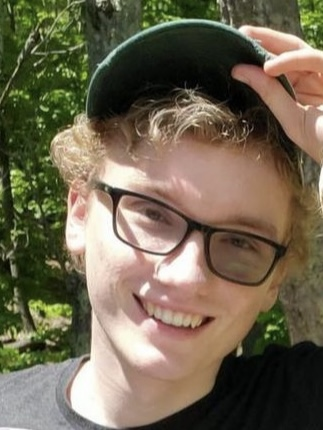
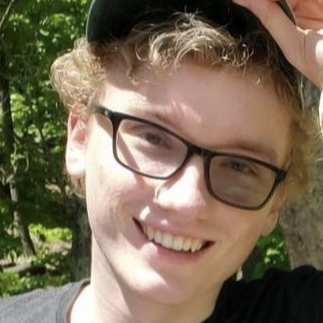
style: making the bio page actually cool

diff --git a/api/public/html/teambio.css b/api/public/html/teambio.css
@@ -1,41 +1,39 @@
 
+.container {
+  display: grid;
+  grid-template-columns: repeat(3, 1fr); 
+  gap: 2%;
+  padding: 2%;
+  padding-left: 12%;
+  padding-right: 12%;
+  margin: auto;
+  
+}
 
 .bio-card {
-    /* Add shadows to create the "card" effect */
-    box-shadow: 0 4px 8px 0 rgba(0,0,0,0.2);
-    transition: 0.3s;
-    background-color: #ffbb00;
-    display: flex;
-    flex-direction: column;
-    justify-content: center;
-    align-items: center;
-    padding:2rem;
-    font-size: small;
-    
+  /* Add shadows to create the "card" effect */
+  display: flex;
+  padding: 5%;
+  box-shadow: 0 4px 8px 0 rgba(0,0,0,0.2);
+  transition: 0.3s;
+  background-color: #ffbb00;
+  flex-direction: column;
+  justify-content: flex-start;
+  align-items: center;
+}
 
-  }
-  
-  /* On mouse-over, add a deeper shadow */
-  .bio-card:hover {
-    box-shadow: 0 8px 16px 0 rgba(0,0,0,0.2);
-  }
-  
-  /* Add some padding inside the card container */
-  .container {
-    display: grid;
-    grid-template-columns: repeat(3, 1fr);
-    column-gap: 100px;
-    row-gap: 50px;
-    padding: 2rem;
-    padding-right: 9rem;
-    padding-left: 9rem;
-  }
+/* On mouse-over, add a deeper shadow */
+.bio-card:hover {
+  box-shadow: 0 8px 16px 0 rgba(0,0,0,0.2);
+}
 
-  .bio-img {
-    width: 200px;
+.bio-img {
+  width: 60%;
+  object-fit: contain;
+  object-position: center;
+}
 
-  }
-  .bio-text{
-    font-size: medium;
-    margin: 0;
-  }
+.bio-text {
+  font-size: medium;
+  margin: 0;
+}

diff --git a/api/public/html/about.html b/api/public/html/about.html
@@ -10,7 +10,14 @@
       <h1>GUILD CHEESE</h1>
     </div>
   </header>
-  
+  <div class="flex-wrapper">
+    <div class="button">
+      <a href="/">Home</a>
+    </div>
+    <div class="button">
+      <a href="bios">Meet the Team</a>
+    </div>
+  </div>
     <body>
       <h1>Hello!</h1>
       <p>Welcome to Guild Cheese, a vibrant game studio born from the creative minds of Drexel University students! We are a team of aspiring game developers dedicated to bringing cool experiences to players everywhere.
@@ -22,7 +29,10 @@
     <div class = "media-box">
       <img class = "drexel media" src=../images/Drexel_social.png alt="Drexel University">
     </div>
-    <p>other text </p> 
+    <p>This site is a work in progress! </p> 
+    <div class = "media-box">
+      <img class = "media drexel" src=../images/thecat.png alt="gilled cheese meme">
+    </div>
     </body>
   
 </html>

diff --git a/api/public/html/globals.css b/api/public/html/globals.css
@@ -26,6 +26,8 @@ body {
   }
   .header {
     background-color: #ffd000;
+    /* border-bottom: solid;
+    border-color: #e7bd00; */
     display: flex;
     flex-direction: column;
     position: sticky;
@@ -46,5 +48,21 @@ body {
   .media{
     border: solid;
     border-width: 50px;
+  }
+  .button {
+    margin-right: 5px;
+    margin-bottom: 5px;
+    background-color: #ffd000;
+    padding: 2%;
+    border-radius: 0% 0% 70% 70%;
+
+}
+
+
+  
+  .flex-wrapper {
+    display: flex;
+    margin-left: 2rem;
+    flex-direction: row-reverse;
   }
   

diff --git a/api/public/html/teambio.html b/api/public/html/teambio.html
@@ -10,7 +10,16 @@
       <h1>GUILD CHEESE</h1>
     </div>
   </header>
+  <div class="flex-wrapper">
+    <div class="button">
+      <a href="about">About Us</a>
+    </div>
+    <div class="button">
+      <a href="/">Home</a>
+    </div>
+  </div>
   <body>
+    <h1>Meet The Team</h1>
     <div class="container" id="feedDiv"></div>
 
     <script src="js/createbios.js" type="module"></script>

diff --git a/api/public/index.css b/api/public/index.css
@@ -1,21 +1,6 @@
 
 
-  .button {
-    margin-right: 5px;
-    margin-bottom: 5px;
-    background-color: #ffd000;
-    padding: 2%;
-    border-radius: 0% 0% 70% 70%;
 
-}
-
-
-  
-  .flex-wrapper {
-    display: flex;
-    margin-left: 2rem;
-    flex-direction: row-reverse;
-  }
 
 
   
